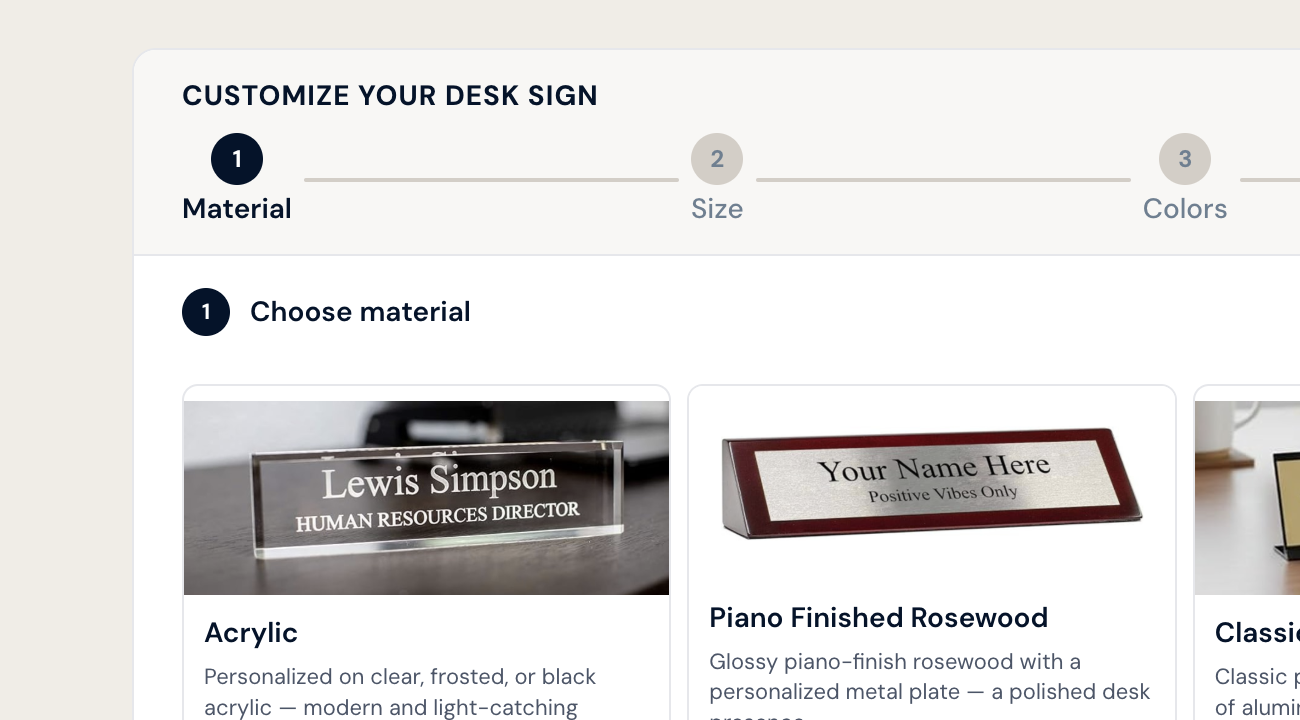
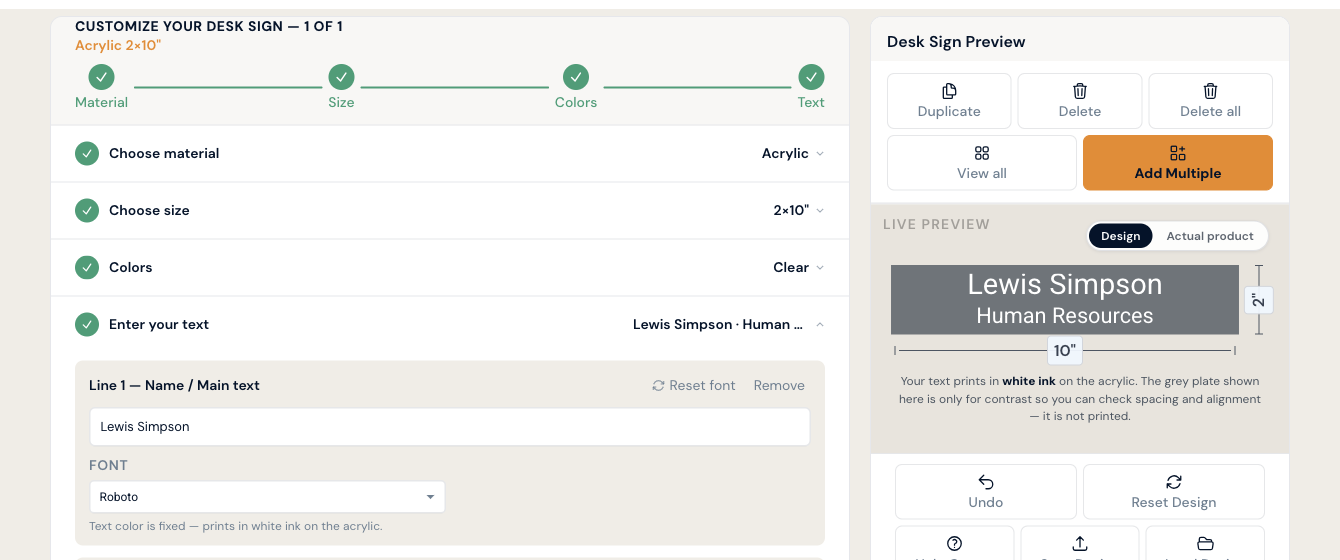
Updated color options for the sign designer

diff --git a/app/constants/designerVariants.ts b/app/constants/designerVariants.ts
@@ -186,6 +186,8 @@ export interface SignTemplateType {
   id: string;
   name: string;
   sizes: SignTemplateSizeOption[];
+  /** Product-style artwork used only in the shape picker; SVG templates remain the editable geometry. */
+  previewImageSrc?: string;
   /**
    * When `false`, the SVG has no border trim overlay — hide border color UI and treat the border step as complete.
    * Omit or `true` for designs with a configurable border.
@@ -198,6 +200,7 @@ export const SIGN_TEMPLATE_TYPES: SignTemplateType[] = [
   {
     id: "classic-framed",
     name: "Classic framed",
+    previewImageSrc: "/sign-template-previews/classic-framed.jpg",
     sizes: [
       { templateId: "classic-framed-4x6", label: "Small", sizeText: '4×6"' },
       { templateId: "classic-framed-5x7", label: "Medium", sizeText: '5×7"' },
@@ -212,6 +215,7 @@ export const SIGN_TEMPLATE_TYPES: SignTemplateType[] = [
   {
     id: "standard",
     name: "Standard",
+    previewImageSrc: "/sign-template-previews/standard.jpg",
     sizes: [
       { templateId: "standard-2x6-small", label: "Small", sizeText: '2×6"' },
       {
@@ -230,6 +234,7 @@ export const SIGN_TEMPLATE_TYPES: SignTemplateType[] = [
   {
     id: "fancy",
     name: "Fancy",
+    previewImageSrc: "/sign-template-previews/fancy.jpg",
     sizes: [
       { templateId: "fancy-6x3", label: "Small", sizeText: '6×3"' },
       { templateId: "fancy-7x3_5", label: "Medium", sizeText: '7×3.5"' },
@@ -239,6 +244,7 @@ export const SIGN_TEMPLATE_TYPES: SignTemplateType[] = [
   {
     id: "designer-heart",
     name: "Designer",
+    previewImageSrc: "/sign-template-previews/designer.jpg",
     sizes: [
       { templateId: "designer-2x5", label: "Small", sizeText: '2×5"' },
       { templateId: "designer-2_8x7", label: "Medium", sizeText: '2.8×7"' },
@@ -268,6 +274,7 @@ export const ALL_SIGN_TEMPLATE_TYPES: SignTemplateType[] = [
   {
     id: "circle",
     name: "Circle",
+    previewImageSrc: "/sign-template-previews/circle.jpg",
     hasBorderTrim: false,
     sizes: [
       { templateId: "circle-4x4", label: "Small", sizeText: '4×4"' },
@@ -279,6 +286,7 @@ export const ALL_SIGN_TEMPLATE_TYPES: SignTemplateType[] = [
   {
     id: "square",
     name: "Square",
+    previewImageSrc: "/sign-template-previews/square.jpg",
     sizes: [
       { templateId: "square-4x4-small", label: "Small", sizeText: '4×4"' },
       { templateId: "square-6x6-medium", label: "Medium", sizeText: '6×6"' },
@@ -293,6 +301,7 @@ export const ALL_SIGN_TEMPLATE_TYPES: SignTemplateType[] = [
   {
     id: "oval",
     name: "Oval",
+    previewImageSrc: "/sign-template-previews/oval.jpg",
     sizes: [
       { templateId: "oval-2x5-small", label: "Small", sizeText: '2×5"' },
       {
@@ -307,6 +316,7 @@ export const ALL_SIGN_TEMPLATE_TYPES: SignTemplateType[] = [
   {
     id: "portrait",
     name: "Portrait",
+    previewImageSrc: "/sign-template-previews/portrait.jpg",
     sizes: [
       {
         templateId: "portrait-round-4x6",
@@ -329,6 +339,7 @@ export const ALL_SIGN_TEMPLATE_TYPES: SignTemplateType[] = [
   {
     id: "victorian",
     name: "Victorian",
+    previewImageSrc: "/sign-template-previews/victorian.jpg",
     sizes: [
       { templateId: "victorian-3x6-small", label: "Small", sizeText: '3×6"' },
       {
@@ -346,6 +357,7 @@ export const ALL_SIGN_TEMPLATE_TYPES: SignTemplateType[] = [
   {
     id: "notched",
     name: "Notched",
+    previewImageSrc: "/sign-template-previews/notched.jpg",
     sizes: [
       {
         templateId: "notched-6x3_5-small",
@@ -411,6 +423,7 @@ export const ALL_SIGN_TEMPLATE_TYPES: SignTemplateType[] = [
   {
     id: "door-hanger",
     name: "Door hanger",
+    previewImageSrc: "/sign-template-previews/door-hanger.jpg",
     sizes: [
       {
         templateId: "door-hanger-4x8",
@@ -422,6 +435,7 @@ export const ALL_SIGN_TEMPLATE_TYPES: SignTemplateType[] = [
   {
     id: "headstone-basic",
     name: "Headstone basic",
+    previewImageSrc: "/sign-template-previews/headstone.jpg",
     sizes: [
       {
         templateId: "headstone-basic-5x6-small",
@@ -469,6 +483,7 @@ export const ALL_SIGN_TEMPLATE_TYPES: SignTemplateType[] = [
   {
     id: "western-elegant",
     name: "Western elegant",
+    previewImageSrc: "/sign-template-previews/western.jpg",
     sizes: [
       {
         templateId: "western-elegant-6_75x4_5-small",

diff --git a/app/components/BadgeDesignerRedesign.tsx b/app/components/BadgeDesignerRedesign.tsx
@@ -3858,7 +3858,8 @@ const BadgeDesignerRedesign: React.FC<BadgeDesignerRedesignProps> = ({
   // Picker cards only need one preview per shape family. Other sizes load on selection.
   const templateThumbKey = useMemo(() => {
     if (variant === "sign") {
-      return ALL_SIGN_TEMPLATE_TYPES.map((type) => type.sizes[0].templateId)
+      return ALL_SIGN_TEMPLATE_TYPES.filter((type) => !type.previewImageSrc)
+        .map((type) => type.sizes[0].templateId)
         .filter((id) => templates.some((t) => t.id === id))
         .join("|");
     }
@@ -3881,11 +3882,13 @@ const BadgeDesignerRedesign: React.FC<BadgeDesignerRedesignProps> = ({
       (badge.backgroundColor || "").trim() || initialPlateBackgroundHex;
     const thumbTemplates =
       variant === "sign"
-        ? ALL_SIGN_TEMPLATE_TYPES.map((type) =>
-            templatesForThumbsRef.current.find(
-              (t) => t.id === type.sizes[0].templateId,
-            ),
-          ).filter((t): t is LoadedTemplate => Boolean(t))
+        ? ALL_SIGN_TEMPLATE_TYPES.filter((type) => !type.previewImageSrc)
+            .map((type) =>
+              templatesForThumbsRef.current.find(
+                (t) => t.id === type.sizes[0].templateId,
+              ),
+            )
+            .filter((t): t is LoadedTemplate => Boolean(t))
         : templatesForThumbsRef.current;
     const pending = thumbTemplates.filter(
       (t) => !renderedThumbKeysRef.current.has(`${t.id}\0${plateColor}`),
@@ -12687,7 +12690,13 @@ const BadgeDesignerRedesign: React.FC<BadgeDesignerRedesignProps> = ({
                                       selected={isSelected}
                                       onClick={() => handleSignTypeSelect(type)}
                                     >
-                                      {previewSvg || fallbackPreviewSrc ? (
+                                      {type.previewImageSrc ? (
+                                        <img
+                                          src={type.previewImageSrc}
+                                          alt={type.name}
+                                          className="max-h-full max-w-full object-contain"
+                                        />
+                                      ) : previewSvg || fallbackPreviewSrc ? (
                                         <TemplatePreviewThumb
                                           svgMarkup={previewSvg}
                                           variant={variant}
@@ -17646,7 +17655,14 @@ const BadgeDesignerRedesign: React.FC<BadgeDesignerRedesignProps> = ({
                               allowOverflow={modalSignThumbBoost}
                               onClick={() => handleSignTypeSelectInModal(type)}
                             >
-                              {previewSvg || fallbackPreviewSrc ? (
+                              {type.previewImageSrc ? (
+                                <img
+                                  src={type.previewImageSrc}
+                                  alt={type.name}
+                                  loading="lazy"
+                                  className="max-h-full max-w-full object-contain"
+                                />
+                              ) : previewSvg || fallbackPreviewSrc ? (
                                 <TemplatePreviewThumb
                                   svgMarkup={previewSvg}
                                   variant={variant}
